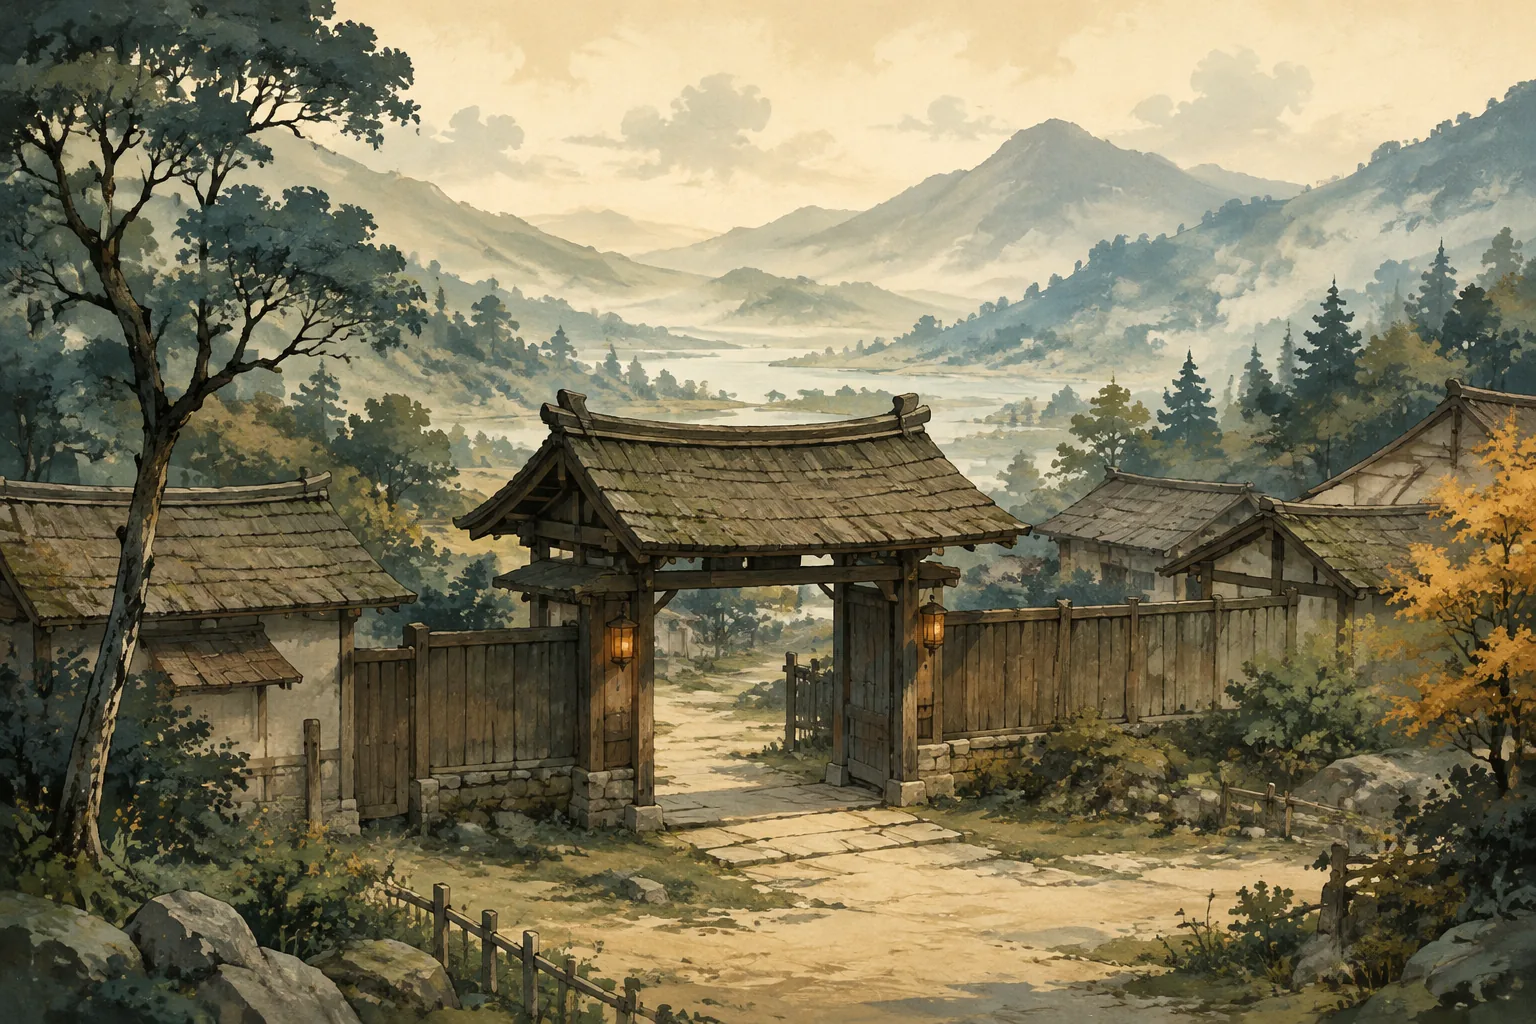
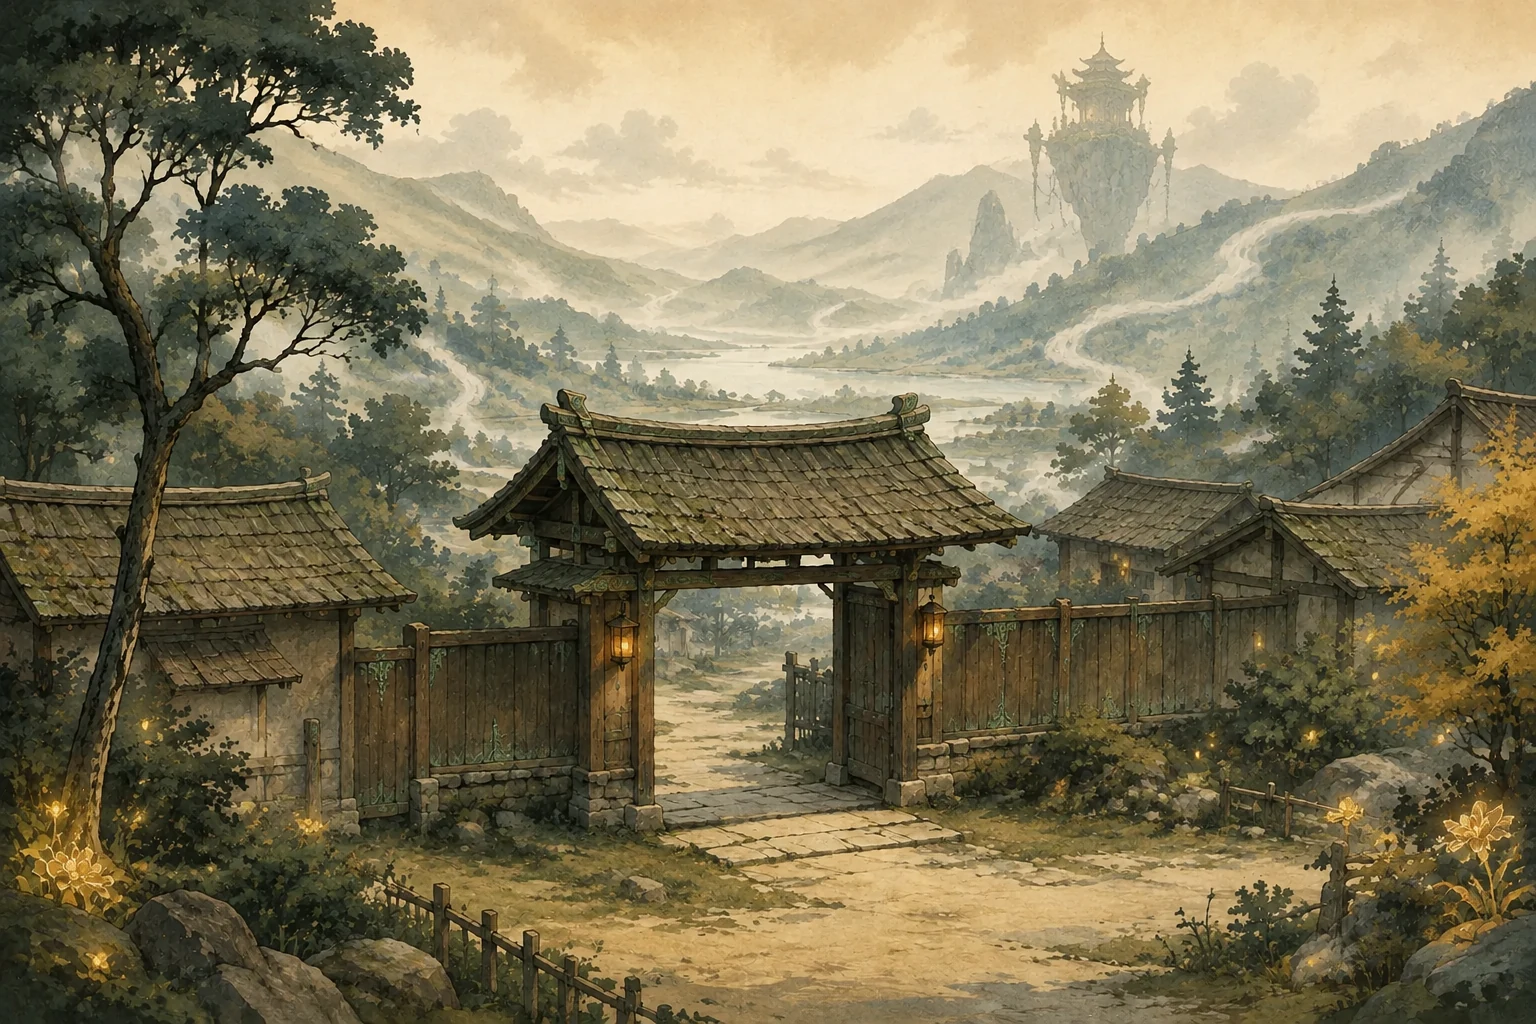
Reskin the Mandarin gate scene (#51)

diff --git a/resources/js/games/mandarin/assets/visualRegistry.ts b/resources/js/games/mandarin/assets/visualRegistry.ts
@@ -71,7 +71,7 @@ function slot(id: VisualSlotId, alt: string, anchor: VisualSlot['anchor'], usage
 }
 
 export const VISUAL_REGISTRY: Record<VisualSlotId, VisualSlot> = {
-  'scene-gate-poster': slot('scene-gate-poster', 'A modest timber village gate with misty hills behind it.', 'center', 'Scene 1 journey card, 2D fallback behind the lesson card, story-beat backdrop.'),
+  'scene-gate-poster': slot('scene-gate-poster', 'A timber village gate opens toward misty mountains and a distant floating shrine.', 'center', 'Scene 1 journey card, 2D fallback behind the lesson card, story-beat backdrop.'),
   'scene-street-poster': slot('scene-street-poster', 'A quiet stone-paved village street with timber buildings.', 'center', 'Scene 2 journey card, 2D fallback, story-beat backdrop.'),
   'scene-bridge-poster': slot('scene-bridge-poster', 'A small arched stone bridge over a calm river.', 'center', 'Scene 3 journey card, 2D fallback, story-beat backdrop.'),
   'scene-roadside-poster': slot('scene-roadside-poster', 'A simple roadside shelter with a bench and foliage.', 'center', 'Scene 4 journey card, 2D fallback, story-beat backdrop.'),

diff --git a/docs/games/mandarin-asset-slots.md b/docs/games/mandarin-asset-slots.md
@@ -79,6 +79,10 @@ The generated set was produced from the manifest prompts with the gate poster an
 portrait as style references for the rest, so all eight read as one place. Posters contain
 no people or text; portraits are original fictional adults on transparent backgrounds.
 
+Scene 1 carries the first fantasy reskin pass: restrained jade-and-bronze gate details,
+lantern motes, luminous mountain mist, edge glows, and a distant suspended shrine. Its
+foreground path and middle crop stay quiet so lesson UI and portrait crops remain readable.
+
 ### Fallback SVGs
 
 The SVGs use the same palette as the diorama (`PALETTE` in
